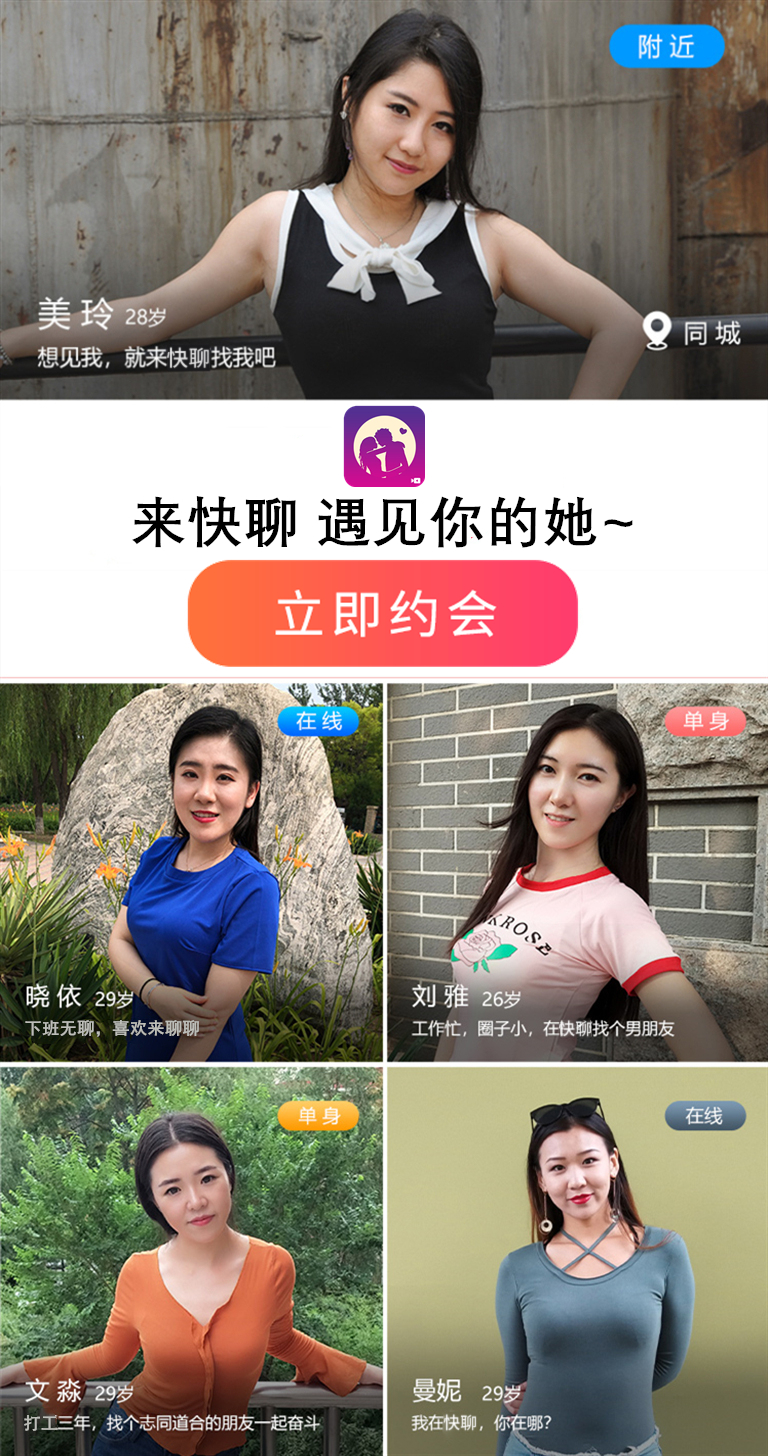
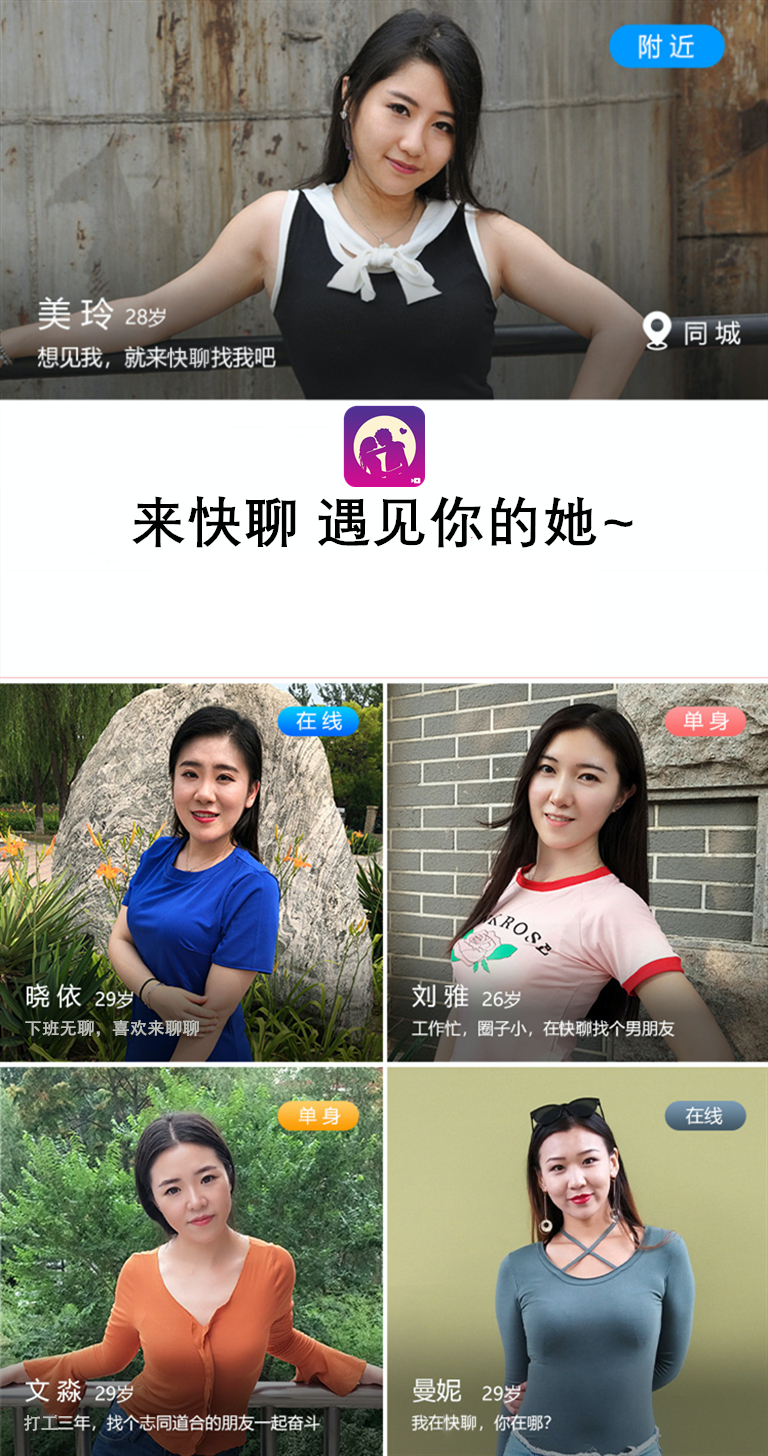
替换btn按钮

Changed region(s): [[0.2188, 0.3709, 0.75, 0.4636]]

diff --git a/www/kltgad/kl/index.html b/www/kltgad/kl/index.html
@@ -68,7 +68,7 @@
 <body>
     <div id="download" class="downloadclz">
         <img id="b_img" style="width:100%; height:100%; display: block;" src="images/01.jpg" alt="">
-        <img src="images/btn.gif" class="downloadclz" style="position: fixed;left: 20%;bottom: 5%;width: 60%">
+        <img src="images/btn.gif" class="downloadclz" style="position: absolute;left: 20%;top: 38%;width: 60%">
         <div style="width: 100%;text-align: center; font-size: 10px;color: #000; position: absolute; bottom: 2%">
             乌鲁木齐智博恒冠通信科技有限责任公司 </div>
         <!-- <div style="width: 100%;text-align: center; font-size: 10px;color: #000; position: relative;; bottom: 2%">北京智投智道投资咨询有限公司<br>地址：昌平区昌崔路198号院2号楼 联系电话：15810015773</div> -->
